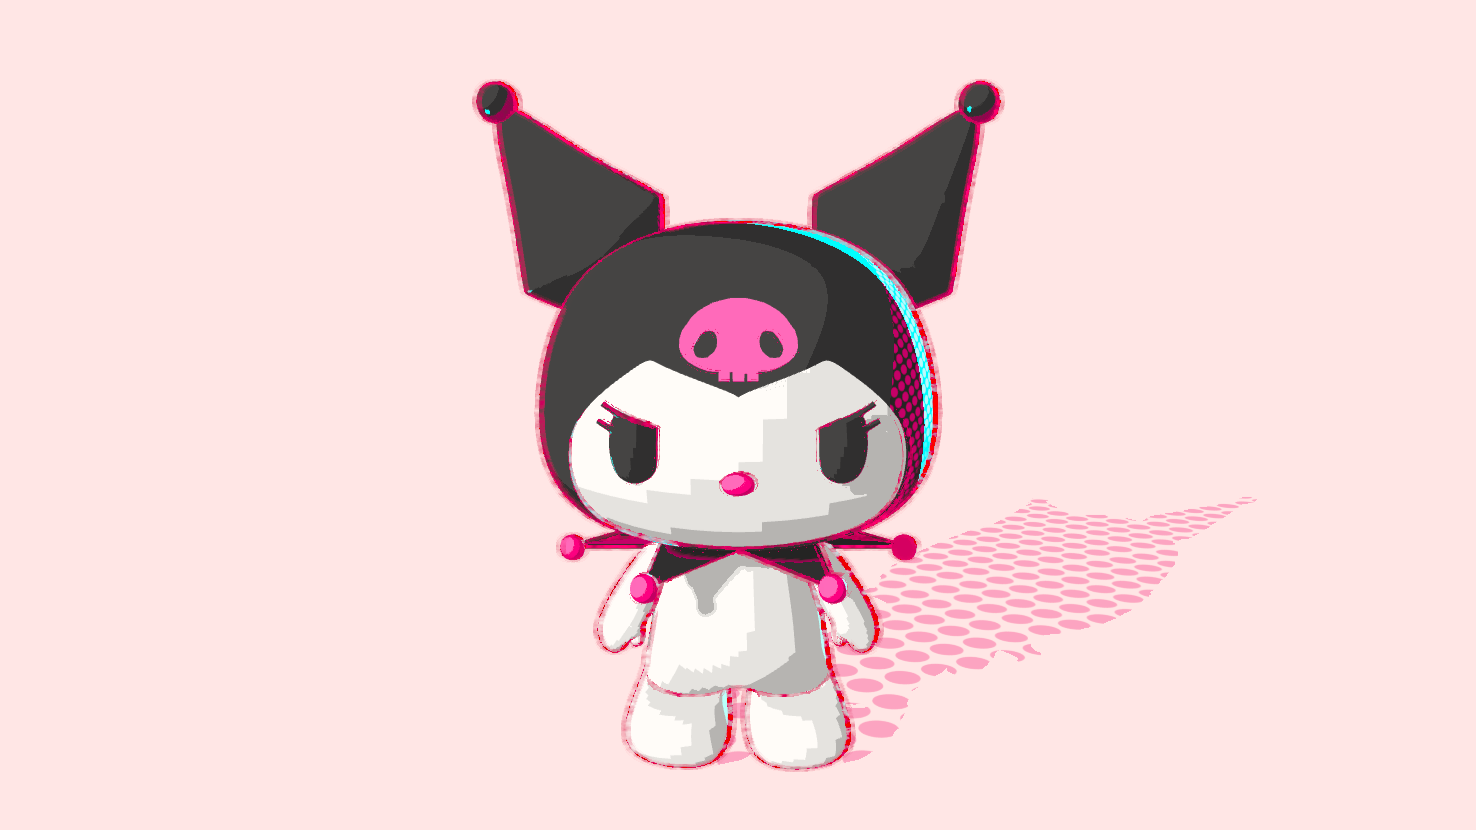
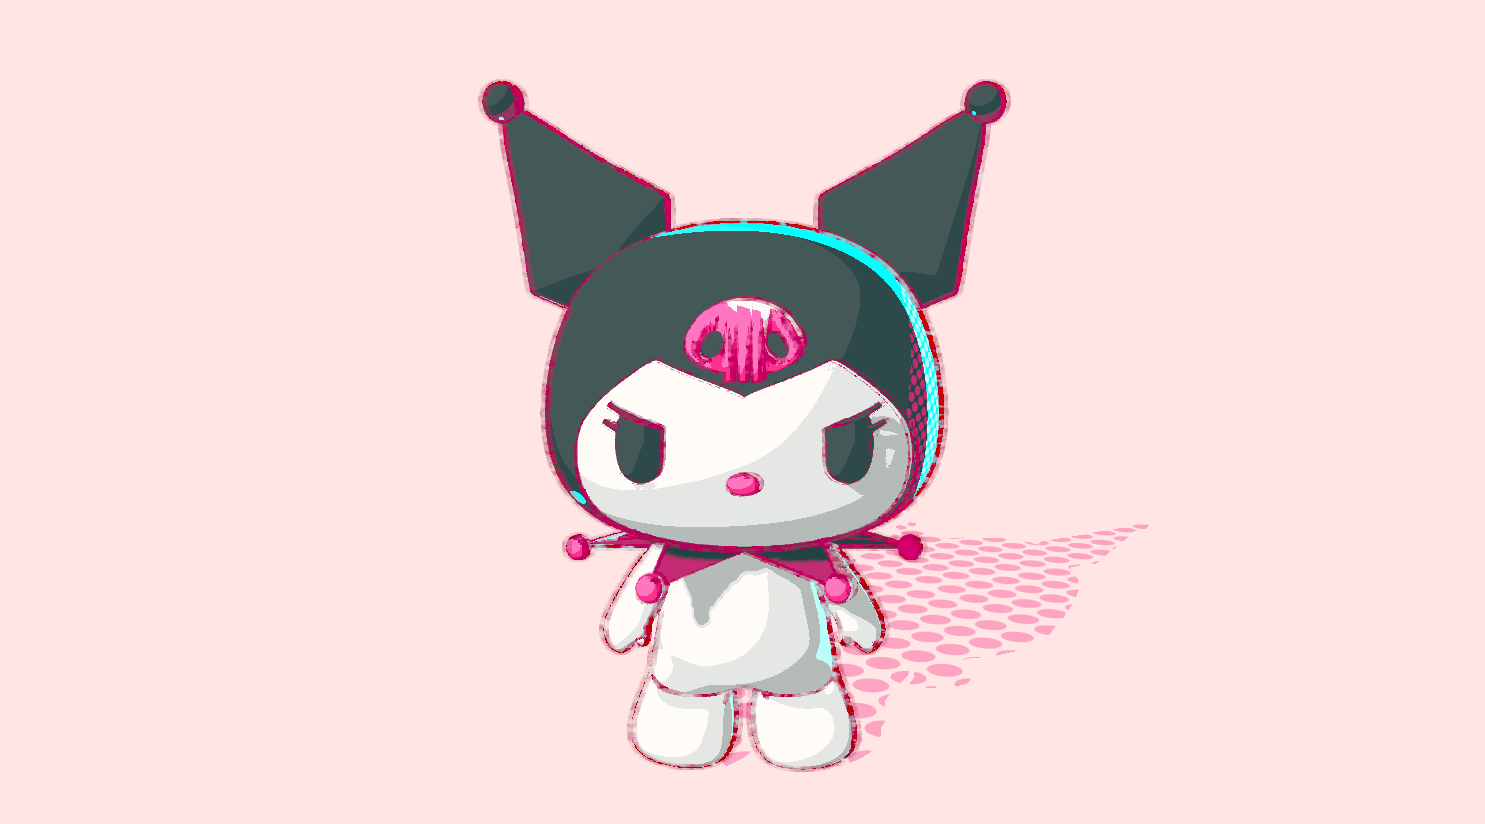
final readme

diff --git a/README.md b/README.md
@@ -6,32 +6,48 @@
 ![](Images/final.png)
 
 ### Concept Art
-![](Images/concept.png) From Sanrio official: https://kuromi.sanrio.co.jp/en/prettyjourney/
+![](Images/concept_art.jpg) From Sanrio official: https://kuromi.sanrio.co.jp/en/prettyjourney/
 
 ### Features
 - Specular and Rim Highlight
+
     - Implemented in `ComputeAdditionalLighting` in `LightingHelp.hlsl`.
+    <p align="center"> <img src="Images/pointlight.png" width="80%"> </p>
 - Custom Shadow
     - Same step as lab 3, except the shadow texture is sampled using the object UVs.
+    - User can choose whether to use custom shadow. If not, the shadow color will be procedurally computed based on the given color.
 - Animated Colors
-    - Used sine time as the factor to interpolate between two colors. Used smoothstep to create an impulse effect instead of just linear change. I chose to animate between black and purple for Kuromi’s hat since those are the colors most commonly used in the official merch.
+    - Used `Sine Time` as the factor to interpolate between two colors. Used `Smoothstep` to create an impulse effect instead of just linear change. 
+    - I chose to animate between black and purple for Kuromi's hat since those are the colors most commonly used in the official merch :3
+    <p align="center"> <img src="Images/animatedcolor.png" width="80%"> </p>
+    <p align="center"> <img src="Images/sg_animatedcolor.png" width="80%"> </p>
+
+
 - Debug assignment
     - Fixed the invert color script by passing the temp buffer color to the screen buffer.
-<p align="center">
-  <img src="Images/invertcolor_2.png" width="45%">
-  <img src="Images/invertcolor_1.png" width="45%">
-</p>
+    <p align="center">
+    <img src="Images/invertcolor_2.png" width= 49%">
+    <img src="Images/invertcolor_1.png" width="49%">
+    </p>
 
 - Outlines
-    - Used depth and normal buffer to detect edge
-    - Custom width and color
-    - Multiplied with an animated noise to create a cranyon effect. To animate the noise, I converted time to a repeating square wave, by applying `frac` and `step` node on sine time.
+    - Used depth and normal buffer to detect edge. I closed depth write of the ground so that it will not be detected. (Since I closed it, the ground is no longer seen in the scene viewport - that's why there's no ground in my screenshots)
+
+    | <img width=500px src="Images/outline_depth.png">  | <img width=500px src="Images/outline_normal.png"> | <img width=500px src="Images/outline_combined.png"> | 
+    |:--:|:--:|:--:|
+    | *Edge Detection by Depth* | *Edge Detection by Normal* | *Combined* |
+
+    - User customizable width and color
+    - The outlines are multiplied with an animated noise to create a cranyon effect. To animate the noise, I converted time to a repeating square wave, by applying `frac` and `step` node on sine time.
+
 - Full Screen Post Process
     - Custom saturation and tone shifting
 - Press Space to Switch Materials
-    - Can switch between current materials and a set of materials with smooth color applied on Kuromi and the ground.
+    - Can switch between current materials and a set of materials with smooth color interpolation applied on Kuromi and the ground.
+    <p align="center"> <img src="Images/other_mat.png" width="80%"> </p>
 - Procedural Base Color
     - Instead of manually picking highlight, midtone and shadow colors, the user only picks a base color. Based on my experience as an artist, I usually pick shadow colors with lower brightness and higher saturation (bottom-right of the color palette). So in my toon shader, I compute the shadow color by doing the same thing to the base color (decreasing brightness and increasing saturation), and vice versa for the highlight color.
+    - Implemented function `ProceduralColor` in `LightingHelp.hlsl`.
 
 ## Project Overview:
 In this assignment, you will use a 2D concept art piece as inspiration to create a 3D Stylized scene in Unity. This will give you the opportunity to explore stylized graphics techniques alongside non-photo-realistic (NPR) real-time rendering workflows in Unity.
